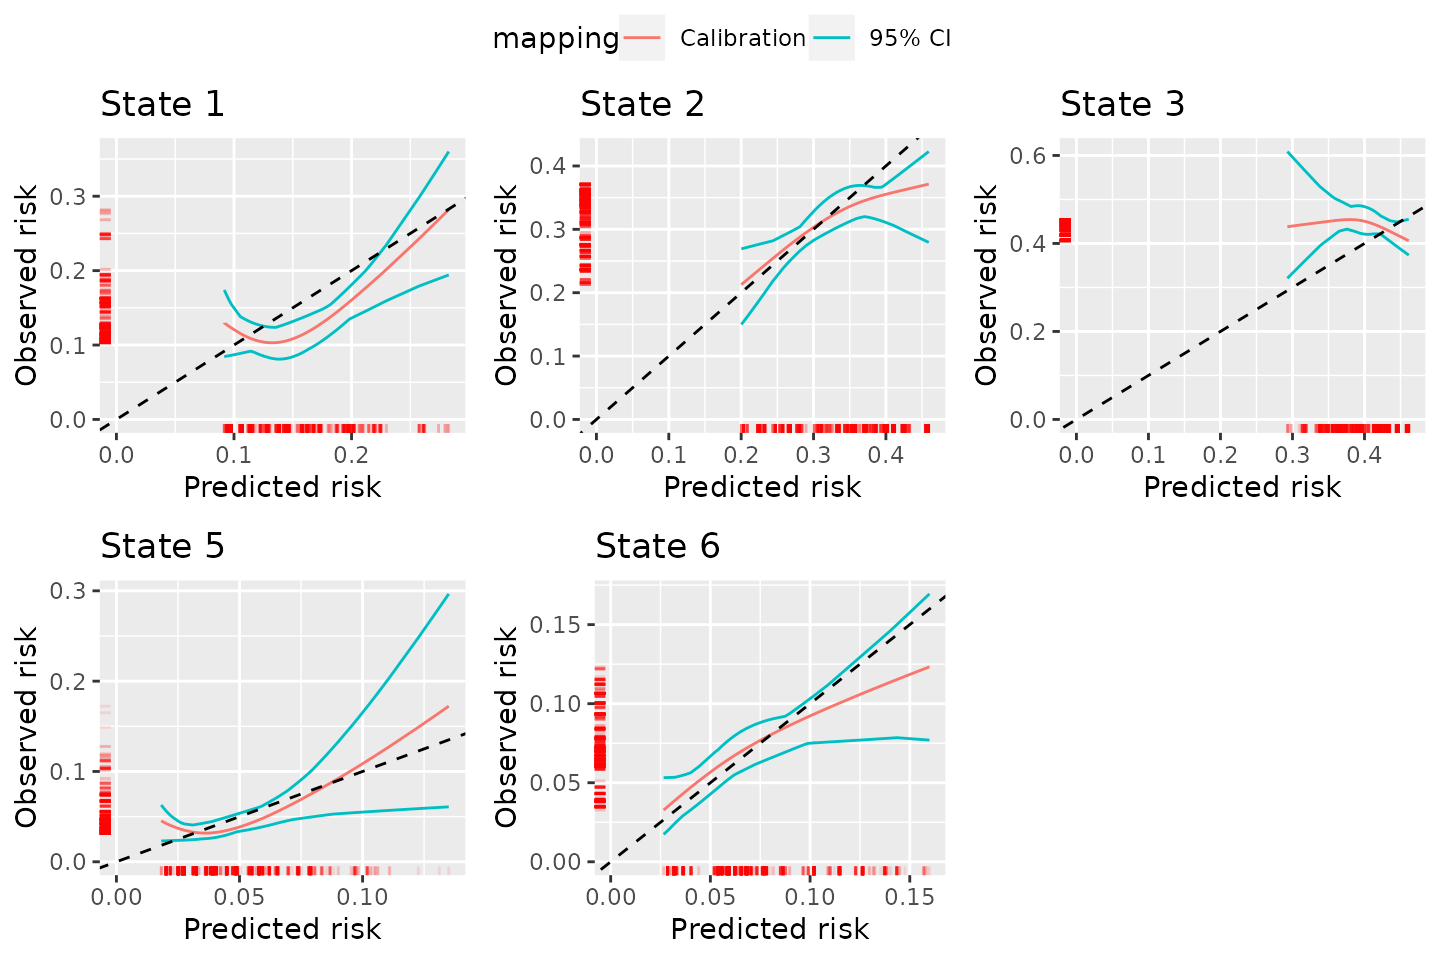
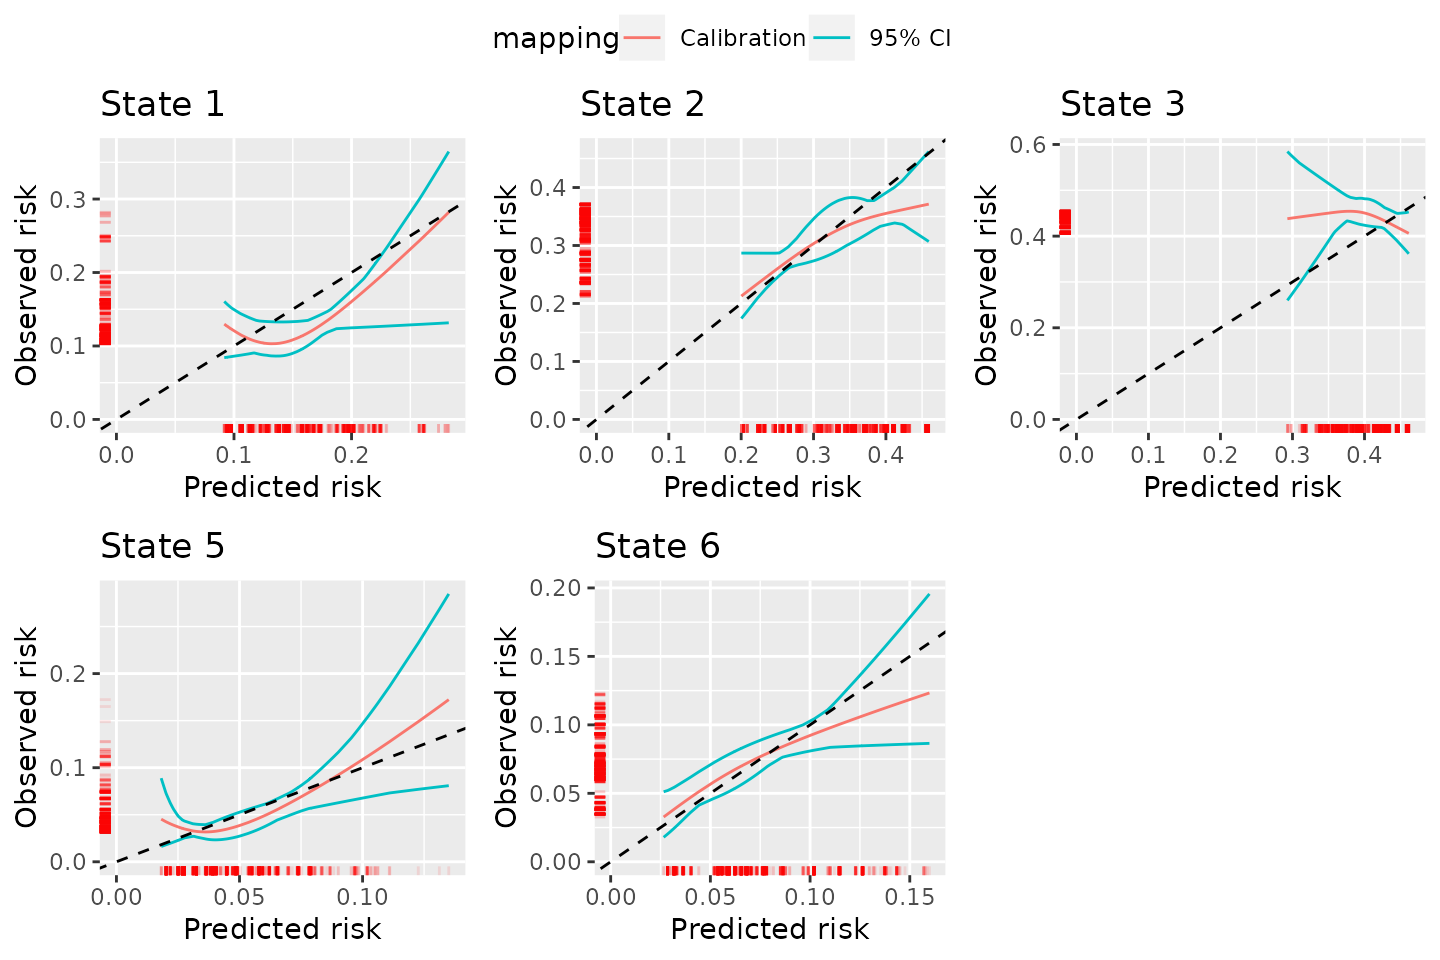
Deploying to gh-pages from @ alexpate30/calibmsm@7d2dee3f147802be44a6a5dd37a7766d62a95e5e 🚀

diff --git a/reference/calib_blr.html b/reference/calib_blr.html
@@ -258,38 +258,38 @@ in the vignette XXXX.</p>
 <span class="r-out co"><span class="r-pr">#&gt;</span>   .. ..$ id       : int [1:1778] 2 4 5 7 10 13 14 16 18 19 ...</span>
 <span class="r-out co"><span class="r-pr">#&gt;</span>   .. ..$ pred     : num [1:1778] 0.114 0.1384 0.1233 0.0974 0.1137 ...</span>
 <span class="r-out co"><span class="r-pr">#&gt;</span>   .. ..$ obs      : num [1:1778] 0.11 0.104 0.105 0.124 0.11 ...</span>
-<span class="r-out co"><span class="r-pr">#&gt;</span>   .. ..$ obs.lower: num [1:1778] 0.0896 0.0816 0.0863 0.0851 0.0897 ...</span>
-<span class="r-out co"><span class="r-pr">#&gt;</span>   .. ..$ obs.upper: num [1:1778] 0.133 0.126 0.126 0.165 0.133 ...</span>
+<span class="r-out co"><span class="r-pr">#&gt;</span>   .. ..$ obs.lower: num [1:1778] 0.0899 0.0818 0.086 0.0876 0.09 ...</span>
+<span class="r-out co"><span class="r-pr">#&gt;</span>   .. ..$ obs.upper: num [1:1778] 0.131 0.129 0.127 0.164 0.131 ...</span>
 <span class="r-out co"><span class="r-pr">#&gt;</span>   ..$ state2:'data.frame':	1778 obs. of  5 variables:</span>
 <span class="r-out co"><span class="r-pr">#&gt;</span>   .. ..$ id       : int [1:1778] 2 4 5 7 10 13 14 16 18 19 ...</span>
 <span class="r-out co"><span class="r-pr">#&gt;</span>   .. ..$ pred     : num [1:1778] 0.232 0.184 0.161 0.212 0.232 ...</span>
 <span class="r-out co"><span class="r-pr">#&gt;</span>   .. ..$ obs      : num [1:1778] 0.17 0.186 0.176 0.179 0.17 ...</span>
-<span class="r-out co"><span class="r-pr">#&gt;</span>   .. ..$ obs.lower: num [1:1778] 0.129 0.16 0.146 0.149 0.129 ...</span>
-<span class="r-out co"><span class="r-pr">#&gt;</span>   .. ..$ obs.upper: num [1:1778] 0.22 0.216 0.209 0.21 0.22 ...</span>
+<span class="r-out co"><span class="r-pr">#&gt;</span>   .. ..$ obs.lower: num [1:1778] 0.122 0.154 0.14 0.147 0.122 ...</span>
+<span class="r-out co"><span class="r-pr">#&gt;</span>   .. ..$ obs.upper: num [1:1778] 0.219 0.212 0.205 0.21 0.219 ...</span>
 <span class="r-out co"><span class="r-pr">#&gt;</span>   ..$ state3:'data.frame':	1778 obs. of  5 variables:</span>
 <span class="r-out co"><span class="r-pr">#&gt;</span>   .. ..$ id       : int [1:1778] 2 4 5 7 10 13 14 16 18 19 ...</span>
 <span class="r-out co"><span class="r-pr">#&gt;</span>   .. ..$ pred     : num [1:1778] 0.0844 0.0758 0.0551 0.0615 0.0844 ...</span>
 <span class="r-out co"><span class="r-pr">#&gt;</span>   .. ..$ obs      : num [1:1778] 0.1249 0.1167 0.0919 0.1001 0.1248 ...</span>
-<span class="r-out co"><span class="r-pr">#&gt;</span>   .. ..$ obs.lower: num [1:1778] 0.0971 0.0901 0.052 0.0669 0.0971 ...</span>
-<span class="r-out co"><span class="r-pr">#&gt;</span>   .. ..$ obs.upper: num [1:1778] 0.15 0.143 0.14 0.14 0.15 ...</span>
+<span class="r-out co"><span class="r-pr">#&gt;</span>   .. ..$ obs.lower: num [1:1778] 0.0962 0.0929 0.0497 0.0652 0.0962 ...</span>
+<span class="r-out co"><span class="r-pr">#&gt;</span>   .. ..$ obs.upper: num [1:1778] 0.155 0.147 0.138 0.14 0.155 ...</span>
 <span class="r-out co"><span class="r-pr">#&gt;</span>   ..$ state4:'data.frame':	1778 obs. of  5 variables:</span>
 <span class="r-out co"><span class="r-pr">#&gt;</span>   .. ..$ id       : int [1:1778] 2 4 5 7 10 13 14 16 18 19 ...</span>
 <span class="r-out co"><span class="r-pr">#&gt;</span>   .. ..$ pred     : num [1:1778] 0.233 0.218 0.183 0.221 0.233 ...</span>
 <span class="r-out co"><span class="r-pr">#&gt;</span>   .. ..$ obs      : num [1:1778] 0.243 0.224 0.185 0.228 0.243 ...</span>
-<span class="r-out co"><span class="r-pr">#&gt;</span>   .. ..$ obs.lower: num [1:1778] 0.199 0.191 0.151 0.195 0.199 ...</span>
-<span class="r-out co"><span class="r-pr">#&gt;</span>   .. ..$ obs.upper: num [1:1778] 0.293 0.264 0.215 0.269 0.293 ...</span>
+<span class="r-out co"><span class="r-pr">#&gt;</span>   .. ..$ obs.lower: num [1:1778] 0.203 0.192 0.155 0.195 0.203 ...</span>
+<span class="r-out co"><span class="r-pr">#&gt;</span>   .. ..$ obs.upper: num [1:1778] 0.288 0.254 0.215 0.259 0.287 ...</span>
 <span class="r-out co"><span class="r-pr">#&gt;</span>   ..$ state5:'data.frame':	1778 obs. of  5 variables:</span>
 <span class="r-out co"><span class="r-pr">#&gt;</span>   .. ..$ id       : int [1:1778] 2 4 5 7 10 13 14 16 18 19 ...</span>
 <span class="r-out co"><span class="r-pr">#&gt;</span>   .. ..$ pred     : num [1:1778] 0.148 0.154 0.143 0.144 0.149 ...</span>
 <span class="r-out co"><span class="r-pr">#&gt;</span>   .. ..$ obs      : num [1:1778] 0.191 0.165 0.222 0.212 0.188 ...</span>
-<span class="r-out co"><span class="r-pr">#&gt;</span>   .. ..$ obs.lower: num [1:1778] 0.167 0.145 0.182 0.177 0.164 ...</span>
-<span class="r-out co"><span class="r-pr">#&gt;</span>   .. ..$ obs.upper: num [1:1778] 0.222 0.183 0.275 0.256 0.216 ...</span>
+<span class="r-out co"><span class="r-pr">#&gt;</span>   .. ..$ obs.lower: num [1:1778] 0.165 0.147 0.185 0.179 0.164 ...</span>
+<span class="r-out co"><span class="r-pr">#&gt;</span>   .. ..$ obs.upper: num [1:1778] 0.22 0.184 0.267 0.253 0.215 ...</span>
 <span class="r-out co"><span class="r-pr">#&gt;</span>   ..$ state6:'data.frame':	1778 obs. of  5 variables:</span>
 <span class="r-out co"><span class="r-pr">#&gt;</span>   .. ..$ id       : int [1:1778] 2 4 5 7 10 13 14 16 18 19 ...</span>
 <span class="r-out co"><span class="r-pr">#&gt;</span>   .. ..$ pred     : num [1:1778] 0.189 0.23 0.335 0.264 0.189 ...</span>
 <span class="r-out co"><span class="r-pr">#&gt;</span>   .. ..$ obs      : num [1:1778] 0.207 0.254 0.316 0.28 0.207 ...</span>
-<span class="r-out co"><span class="r-pr">#&gt;</span>   .. ..$ obs.lower: num [1:1778] 0.186 0.228 0.284 0.256 0.186 ...</span>
-<span class="r-out co"><span class="r-pr">#&gt;</span>   .. ..$ obs.upper: num [1:1778] 0.235 0.285 0.358 0.31 0.235 ...</span>
+<span class="r-out co"><span class="r-pr">#&gt;</span>   .. ..$ obs.lower: num [1:1778] 0.187 0.23 0.28 0.255 0.187 ...</span>
+<span class="r-out co"><span class="r-pr">#&gt;</span>   .. ..$ obs.upper: num [1:1778] 0.231 0.281 0.358 0.307 0.231 ...</span>
 <span class="r-out co"><span class="r-pr">#&gt;</span>  $ metadata:List of 8</span>
 <span class="r-out co"><span class="r-pr">#&gt;</span>   ..$ valid.transitions   : num [1:6] 1 2 3 4 5 6</span>
 <span class="r-out co"><span class="r-pr">#&gt;</span>   ..$ assessed.transitions: num [1:6] 1 2 3 4 5 6</span>

diff --git a/articles/Comparison-with-graphical-calibration-curves-in-competing-risks-setting.html b/articles/Comparison-with-graphical-calibration-curves-in-competing-risks-setting.html
@@ -221,11 +221,11 @@ the pseudo-value approach, implemented through
 <span>                 n.pctls <span class="op">=</span> <span class="fl">9</span>,</span>
 <span>                 CI <span class="op">=</span> <span class="fl">95</span>,</span>
 <span>                 CI.type <span class="op">=</span> <span class="st">"parametric"</span><span class="op">)</span></span>
-<span><span class="co">#&gt; [1] "Calculate pseudo values for state =  1 2023-06-13 17:47:36.961205"</span></span>
-<span><span class="co">#&gt; [1] "Calculate pseudo values for state =  2 2023-06-13 17:53:38.954715"</span></span>
-<span><span class="co">#&gt; [1] "Calculate pseudo values for state =  3 2023-06-13 17:59:32.777615"</span></span>
-<span><span class="co">#&gt; [1] "Calculate pseudo values for state =  5 2023-06-13 18:05:18.073066"</span></span>
-<span><span class="co">#&gt; [1] "Calculate pseudo values for state =  6 2023-06-13 18:10:53.052544"</span></span>
+<span><span class="co">#&gt; [1] "Calculate pseudo values for state =  1 2023-06-14 07:57:22.985433"</span></span>
+<span><span class="co">#&gt; [1] "Calculate pseudo values for state =  2 2023-06-14 08:02:35.179069"</span></span>
+<span><span class="co">#&gt; [1] "Calculate pseudo values for state =  3 2023-06-14 08:07:43.680094"</span></span>
+<span><span class="co">#&gt; [1] "Calculate pseudo values for state =  5 2023-06-14 08:12:37.403846"</span></span>
+<span><span class="co">#&gt; [1] "Calculate pseudo values for state =  6 2023-06-14 08:17:28.864983"</span></span>
 <span></span>
 <span><span class="co">### Turn into plot and print</span></span>
 <span><span class="va">plot.calibmsm.pv</span> <span class="op">&lt;-</span> <span class="fu"><a href="https://rdrr.io/r/graphics/plot.default.html" class="external-link">plot</a></span><span class="op">(</span><span class="va">dat.calib.pv</span>, combine <span class="op">=</span> <span class="cn">TRUE</span>, nrow <span class="op">=</span> <span class="fl">2</span>, ncol <span class="op">=</span> <span class="fl">3</span><span class="op">)</span></span></code></pre></div>

diff --git a/reference/plot.calib_mlr.html b/reference/plot.calib_mlr.html
@@ -54,7 +54,15 @@ using data estimated from <code><a href="calib_mlr.html">calib_mlr</a></code>.</
     <div class="section level2">
     <h2 id="ref-usage">Usage<a class="anchor" aria-label="anchor" href="#ref-usage"></a></h2>
     <div class="sourceCode"><pre class="sourceCode r"><code><span><span class="co"># S3 method for calib_mlr</span></span>
-<span><span class="fu"><a href="https://rdrr.io/r/graphics/plot.default.html" class="external-link">plot</a></span><span class="op">(</span><span class="va">x</span>, <span class="va">...</span>, combine <span class="op">=</span> <span class="cn">TRUE</span>, ncol <span class="op">=</span> <span class="cn">NULL</span>, nrow <span class="op">=</span> <span class="cn">NULL</span><span class="op">)</span></span></code></pre></div>
+<span><span class="fu"><a href="https://rdrr.io/r/graphics/plot.default.html" class="external-link">plot</a></span><span class="op">(</span></span>
+<span>  <span class="va">x</span>,</span>
+<span>  <span class="va">...</span>,</span>
+<span>  combine <span class="op">=</span> <span class="cn">TRUE</span>,</span>
+<span>  ncol <span class="op">=</span> <span class="cn">NULL</span>,</span>
+<span>  nrow <span class="op">=</span> <span class="cn">NULL</span>,</span>
+<span>  transparency.plot <span class="op">=</span> <span class="fl">0.25</span>,</span>
+<span>  transparency.rug <span class="op">=</span> <span class="fl">0.1</span></span>
+<span><span class="op">)</span></span></code></pre></div>
     </div>
 
     <div class="section level2">
@@ -77,6 +85,14 @@ using data estimated from <code><a href="calib_mlr.html">calib_mlr</a></code>.</
 
 <dt>nrow</dt>
 <dd><p>Number of rows for combined calibration plot</p></dd>
+
+
+<dt>transparency.plot</dt>
+<dd><p>Degree of transparency for the calibration scatter plot</p></dd>
+
+
+<dt>transparency.rug</dt>
+<dd><p>Degree of transparency for the density rug plot along each axis</p></dd>
 
 </dl></div>
     <div class="section level2">

diff --git a/reference/plot.calib_blr.html b/reference/plot.calib_blr.html
@@ -54,7 +54,7 @@ using data estimated from <code><a href="calib_blr.html">calib_blr</a></code>.</
     <div class="section level2">
     <h2 id="ref-usage">Usage<a class="anchor" aria-label="anchor" href="#ref-usage"></a></h2>
     <div class="sourceCode"><pre class="sourceCode r"><code><span><span class="co"># S3 method for calib_blr</span></span>
-<span><span class="fu"><a href="https://rdrr.io/r/graphics/plot.default.html" class="external-link">plot</a></span><span class="op">(</span><span class="va">x</span>, <span class="va">...</span>, combine <span class="op">=</span> <span class="cn">TRUE</span>, ncol <span class="op">=</span> <span class="cn">NULL</span>, nrow <span class="op">=</span> <span class="cn">NULL</span><span class="op">)</span></span></code></pre></div>
+<span><span class="fu"><a href="https://rdrr.io/r/graphics/plot.default.html" class="external-link">plot</a></span><span class="op">(</span><span class="va">x</span>, <span class="va">...</span>, combine <span class="op">=</span> <span class="cn">TRUE</span>, ncol <span class="op">=</span> <span class="cn">NULL</span>, nrow <span class="op">=</span> <span class="cn">NULL</span>, transparency.rug <span class="op">=</span> <span class="fl">0.1</span><span class="op">)</span></span></code></pre></div>
     </div>
 
     <div class="section level2">
@@ -77,6 +77,10 @@ using data estimated from <code><a href="calib_blr.html">calib_blr</a></code>.</
 
 <dt>nrow</dt>
 <dd><p>Number of rows for combined calibration plot</p></dd>
+
+
+<dt>transparency.rug</dt>
+<dd><p>Degree of transparency for the density rug plot along each axis</p></dd>
 
 </dl></div>
     <div class="section level2">

diff --git a/reference/plot.calib_pv.html b/reference/plot.calib_pv.html
@@ -54,7 +54,7 @@ using data estimated from <code><a href="calib_pv.html">calib_pv</a></code>.</p>
     <div class="section level2">
     <h2 id="ref-usage">Usage<a class="anchor" aria-label="anchor" href="#ref-usage"></a></h2>
     <div class="sourceCode"><pre class="sourceCode r"><code><span><span class="co"># S3 method for calib_pv</span></span>
-<span><span class="fu"><a href="https://rdrr.io/r/graphics/plot.default.html" class="external-link">plot</a></span><span class="op">(</span><span class="va">x</span>, <span class="va">...</span>, combine <span class="op">=</span> <span class="cn">TRUE</span>, ncol <span class="op">=</span> <span class="cn">NULL</span>, nrow <span class="op">=</span> <span class="cn">NULL</span><span class="op">)</span></span></code></pre></div>
+<span><span class="fu"><a href="https://rdrr.io/r/graphics/plot.default.html" class="external-link">plot</a></span><span class="op">(</span><span class="va">x</span>, <span class="va">...</span>, combine <span class="op">=</span> <span class="cn">TRUE</span>, ncol <span class="op">=</span> <span class="cn">NULL</span>, nrow <span class="op">=</span> <span class="cn">NULL</span>, transparency.rug <span class="op">=</span> <span class="fl">0.1</span><span class="op">)</span></span></code></pre></div>
     </div>
 
     <div class="section level2">
@@ -77,6 +77,10 @@ using data estimated from <code><a href="calib_pv.html">calib_pv</a></code>.</p>
 
 <dt>nrow</dt>
 <dd><p>Number of rows for combined calibration plot</p></dd>
+
+
+<dt>transparency.rug</dt>
+<dd><p>Degree of transparency for the density rug plot along each axis</p></dd>
 
 </dl></div>
     <div class="section level2">

diff --git a/reference/calib_mlr.html b/reference/calib_mlr.html
@@ -106,7 +106,7 @@ to present such data.</p>
 <span>  niknots <span class="op">=</span> <span class="fl">4</span>,</span>
 <span>  weights <span class="op">=</span> <span class="cn">NULL</span>,</span>
 <span>  w.function <span class="op">=</span> <span class="cn">NULL</span>,</span>
-<span>  <span class="va">w.covs</span>,</span>
+<span>  w.covs <span class="op">=</span> <span class="cn">NULL</span>,</span>
 <span>  w.landmark.type <span class="op">=</span> <span class="st">"state"</span>,</span>
 <span>  w.max <span class="op">=</span> <span class="fl">10</span>,</span>
 <span>  w.stabilised <span class="op">=</span> <span class="cn">FALSE</span>,</span>
